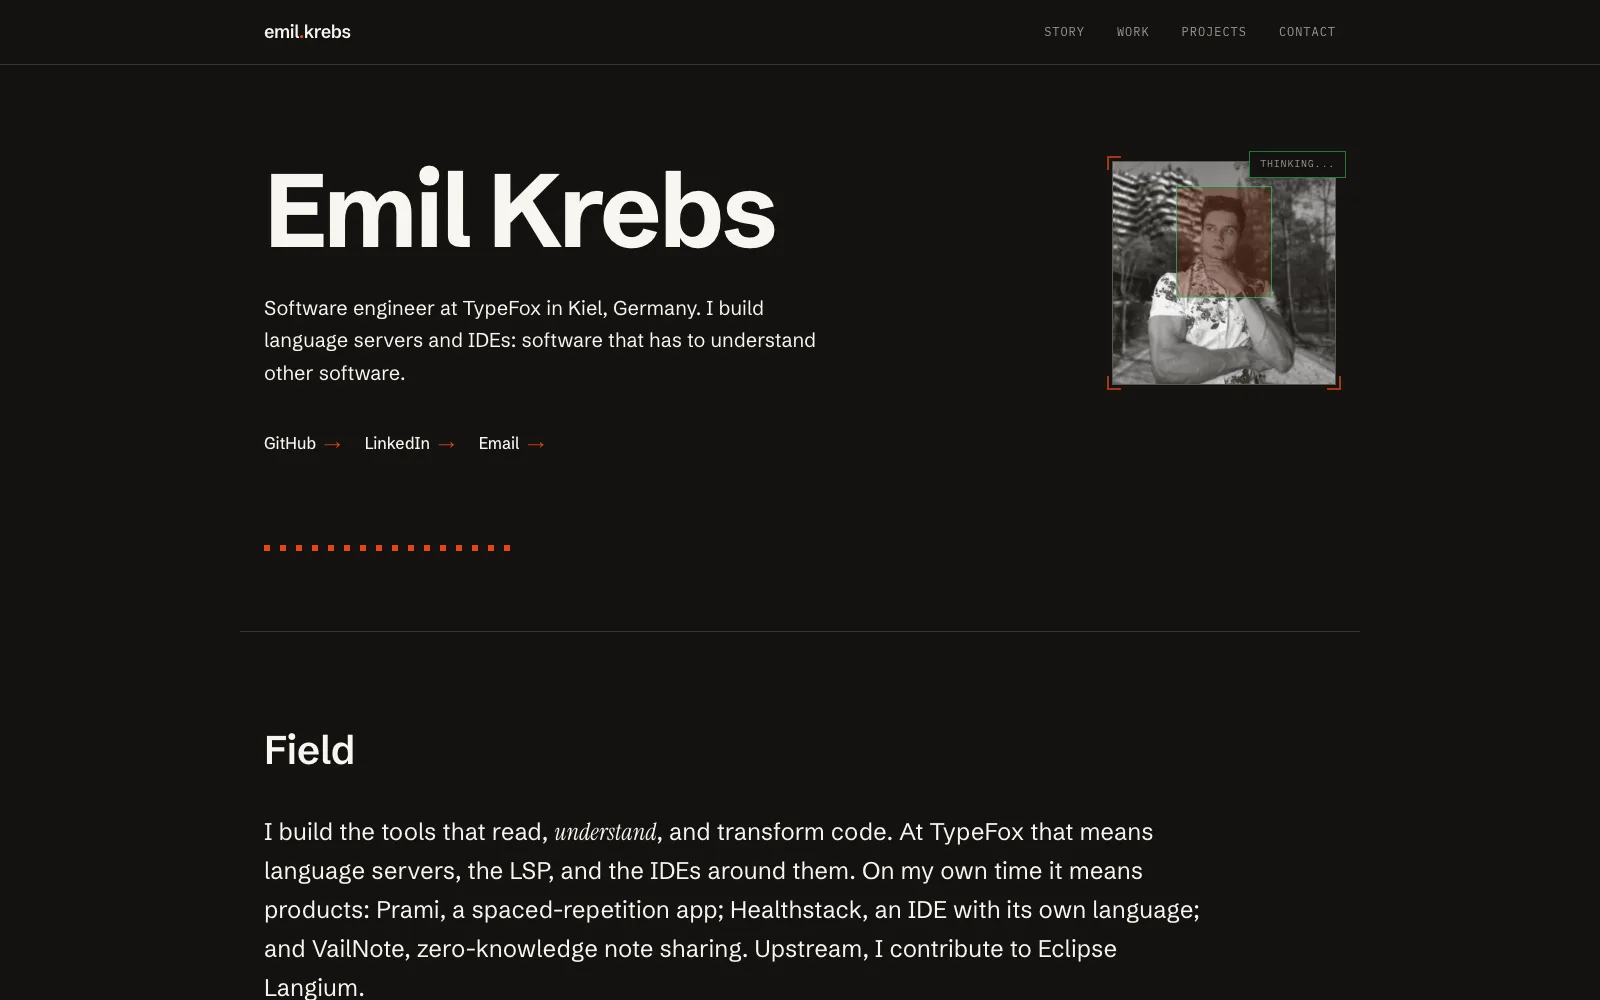
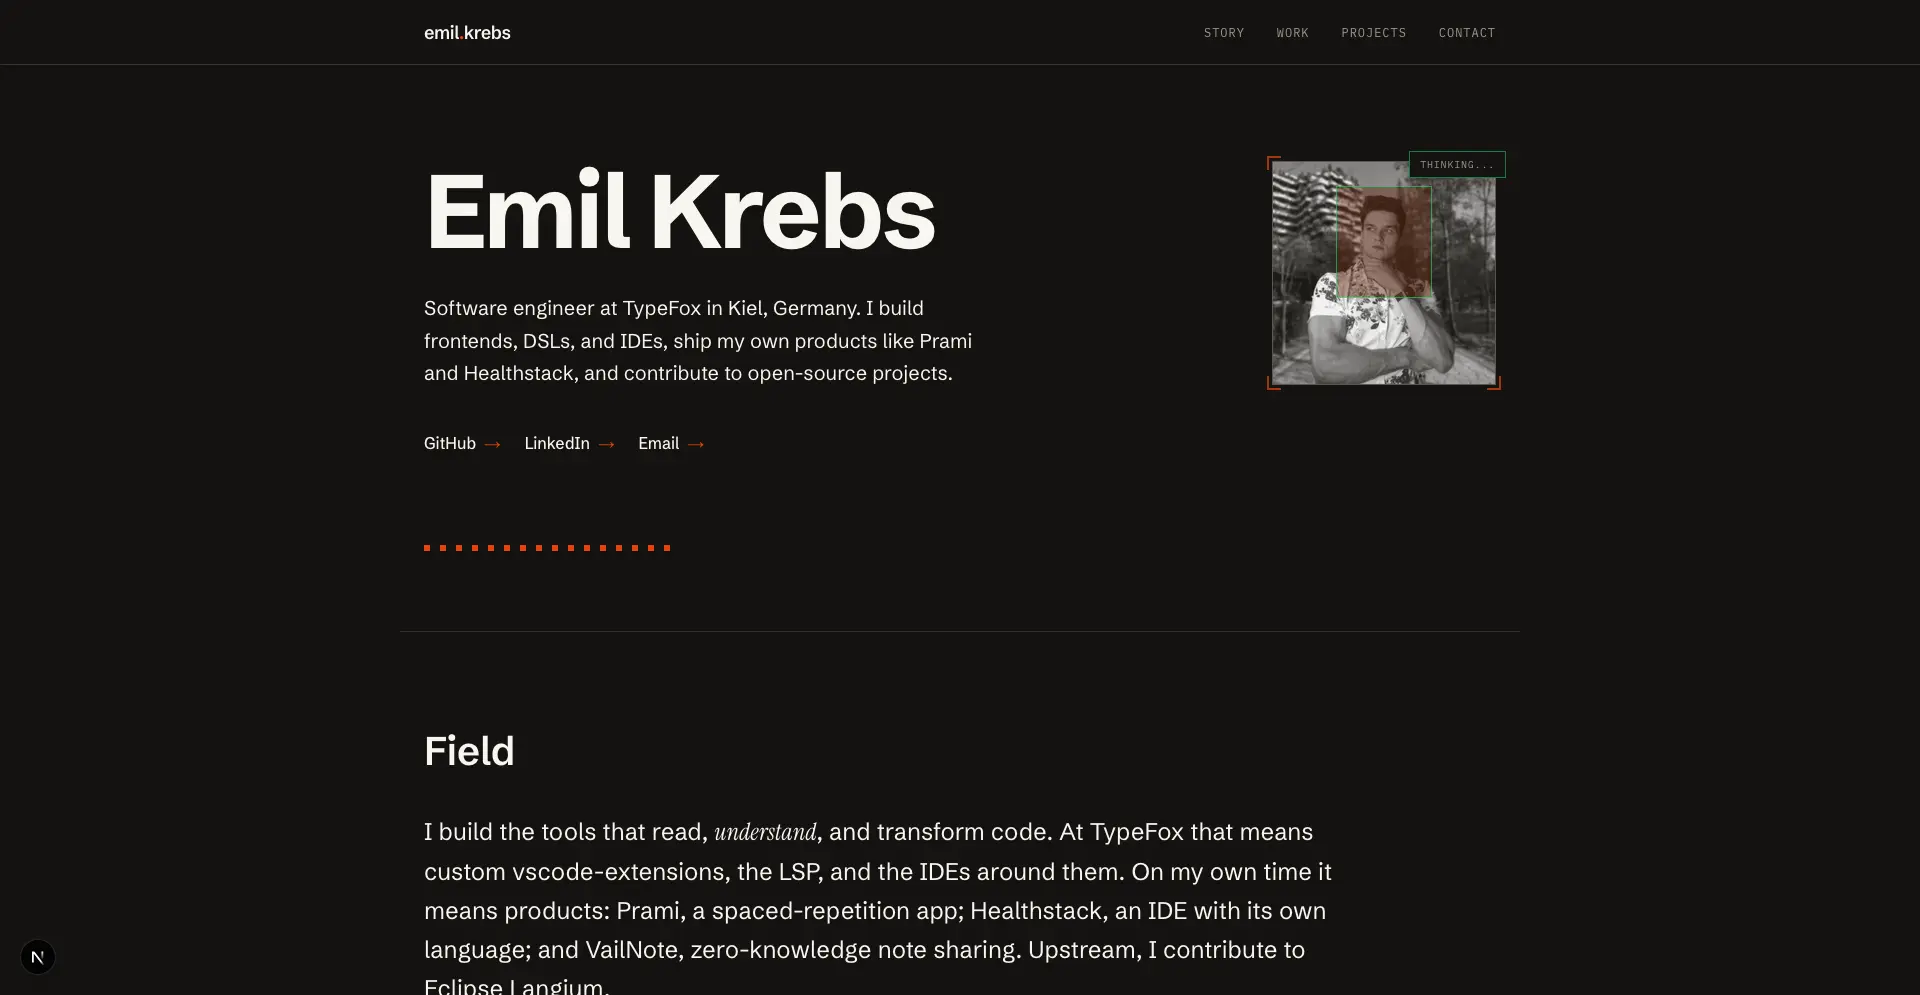
feat: add Med Research MCP project with details and links in English and Chinese

diff --git a/src/app/components/landing.tsx b/src/app/components/landing.tsx
@@ -39,18 +39,11 @@ const FLAGSHIP_BASE: ProjectBase[] = [
         id: "healthstack",
         route: "healthstack",
         tags: ["Theia", "Langium", "TypeScript", "Electron"],
-        image: "/pictures/healthstack-playground.webp",
+        image: "/pictures/healthstack-dashboard.webp",
     },
 ];
 
 const PROJECT_BASE: ProjectBase[] = [
-    {
-        id: "langium-showcase",
-        href: "https://langium.org/showcase/",
-        tags: ["Langium", "TypeScript", "DSLs"],
-        image: "/pictures/langium-minilogo.webp",
-        preview: "https://langium.org/showcase/minilogo/",
-    },
     {
         id: "vailnote",
         href: "https://vailnote.com/",
@@ -58,10 +51,23 @@ const PROJECT_BASE: ProjectBase[] = [
         image: "/pictures/vailnote.webp",
     },
     {
+        id: "med-research-mcp",
+        href: "https://github.com/emilkrebs/med-research-mcp",
+        tags: ["TypeScript", "MCP", "Node.js"],
+        image: "/pictures/med-research-mcp.svg",
+    },
+    {
         id: "watchlock",
         href: "https://github.com/emilkrebs/WatchLock",
         tags: ["Kotlin", "Android", "WearOS"],
         image: "/pictures/watchlock.webp",
+    },
+    {
+        id: "langium-showcase",
+        href: "https://langium.org/showcase/",
+        tags: ["Langium", "TypeScript", "DSLs"],
+        image: "/pictures/langium-minilogo.webp",
+        preview: "https://langium.org/showcase/minilogo/",
     },
     {
         id: "bipoc",
@@ -272,7 +278,7 @@ function WhatIDo({ t }: { t: LandingCopy }) {
 }
 
 function Work({ t }: { t: LandingCopy }) {
-    const tags = ["TypeScript", "LSP", "Langium", "Theia", "Node.js"];
+    const tags = ["TypeScript", "LSP", "React", "Next.js", "Langium", "Theia", "Node.js"];
     return (
         <section
             id="work"
@@ -312,6 +318,7 @@ interface ProjectEntryProps {
 }
 
 function ProjectEntry({ project, locale, flagship, wide }: ProjectEntryProps) {
+    const href = project.route ? routePath(project.route, locale) : project.href;
     return (
         <ProjectCard
             name={project.name}
@@ -319,11 +326,12 @@ function ProjectEntry({ project, locale, flagship, wide }: ProjectEntryProps) {
             status={project.status}
             caption={project.caption}
             tags={project.tags}
-            href={project.route ? routePath(project.route, locale) : project.href}
+            href={href}
             notice={project.notice}
             image={project.image}
             preview={project.preview}
             linkLabel={project.linkLabel}
+            linkOverride={project.linkOverride}
             variant={flagship ? "flagship" : undefined}
             sizes={wide ? FULL_WIDTH_SIZES : HALF_WIDTH_SIZES}
             locale={locale}
@@ -349,7 +357,9 @@ function Projects({ t, locale }: { t: LandingCopy; locale: Locale }) {
 
             <div className="mt-6 grid grid-cols-1 md:grid-cols-2 gap-6">
                 {projects.map((project, index) => {
-                    const wide = index % 3 === 0 || index === projects.length - 1;
+                    // Wide, narrow, narrow… — a narrow card with no partner after it becomes wide instead.
+                    const wide =
+                        index % 3 === 0 || (index % 3 === 1 && index === projects.length - 1);
                     return (
                         <div key={project.id} className={wide ? "md:col-span-2" : ""}>
                             <ProjectEntry project={project} locale={locale} wide={wide} />

diff --git a/src/app/globals.css b/src/app/globals.css
@@ -78,21 +78,6 @@ html:lang(zh) :is(h2, h3):is(.tracking-tight, [class*="tracking-[-"]) {
     letter-spacing: 0;
 }
 
-/* -------------------------------------------------------------------------
-   Chinese ornamental layer (mock proposal, zh pages only, see DESIGN.md).
-   Tiles live in ./zh-textures/ and are bundled from here, so their URLs are
-   content-hashed. Discipline: ornament lives at edges, dividers, watermarks,
-   and low-contrast surface grain; nothing sits behind the nav. Every layer
-   is pointer-events: none, adds no layout, and never animates.
-
-   The layer sits in the components cascade layer, so a utility on a hooked
-   element always wins. It is screen-only, and steps aside for visitors who
-   ask for more contrast or force their own colours. Watermarks sit at
-   z-index -1, either inside an isolated title or in the root stacking
-   context, which still paints them above the canvas that carries the body
-   paper. A container that holds a dialog trigger never gets a z-index or
-   isolation: a stacking context there would bury the dialog.
-   ------------------------------------------------------------------------- */
 @layer components {
     @media screen and (not (prefers-contrast: more)) and (not (forced-colors: active)) {
         html:lang(zh) {
@@ -235,14 +220,14 @@ html:lang(zh) :is(h2, h3):is(.tracking-tight, [class*="tracking-[-"]) {
               and crackle on each is noise. Both tiles top out near 9% alpha, so
               ink-soft tags keep 4.5:1 where a line crosses them. The tiles
               carry their own alpha: no blend modes, no negative z-index. */
-        html:lang(zh) .landing .project-card {
+        html:lang(zh) .project-card {
             background-image: url("./zh-textures/04-binglie-lines-ink.webp");
             background-repeat: repeat;
             background-size: 1024px auto;
         }
 
         @media (prefers-color-scheme: dark) {
-            html:lang(zh) .landing .project-card {
+            html:lang(zh) .project-card {
                 background-image: url("./zh-textures/04-binglie-lines.webp");
             }
         }

diff --git a/src/app/components/project-card.tsx b/src/app/components/project-card.tsx
@@ -24,6 +24,8 @@ export interface ProjectCardProps {
     caption?: string;
     /** Names the link's destination; falls back to the generic "Open". */
     linkLabel?: string;
+    // Overrides the href with a different URL, if provided.
+    linkOverride?: string;
     /** NDA work: dashed frame, no media, no details. */
     confidential?: boolean;
     /** flagship: larger title. compact: square media, tighter type, no caption. */
@@ -48,6 +50,7 @@ export function ProjectCard({
     placeholder,
     caption,
     linkLabel,
+    linkOverride,
     confidential,
     variant,
     filledTags,
@@ -57,9 +60,11 @@ export function ProjectCard({
     const compact = variant === "compact";
     const label = linkLabel ?? t.open;
 
+    const link = linkOverride ?? href;
+
     return (
         <article
-            className={`project-card relative overflow-hidden bg-paper-deep border flex flex-col group transition-colors duration-150 ${confidential
+            className={`project-card relative overflow-hidden bg-paper-deep border flex flex-col group transition-colors duration-150 h-full ${confidential
                 ? "border-ink/35 border-dashed hover:border-ink/70"
                 : "border-hairline hover:border-ink"
             }`}
@@ -154,12 +159,12 @@ export function ProjectCard({
                     </div>
                 )}
                 <div className={compact ? "mt-5" : "mt-8"}>
-                    {href ? (
+                    {link ? (
                         notice ? (
-                            <ExternalNotice href={href} title={name} copy={t.externalNotice} label={label} />
+                            <ExternalNotice href={link} title={name} copy={t.externalNotice} label={label} />
                         ) : (
                             <SmartLink
-                                href={href}
+                                href={link}
                                 className="inline-flex items-center gap-2 font-medium group-hover:text-signal transition-colors duration-150"
                             >
                                 {label}

diff --git a/src/app/(en)/healthstack/page.tsx b/src/app/(en)/healthstack/page.tsx
@@ -219,10 +219,6 @@ export default function HealthstackPage() {
                 </div>
             </section>
 
-            {page.sections.map((section) => (
-                <FeatureSection key={section.heading} section={section} />
-            ))}
-
             <section id="dsl" className="mx-auto max-w-280 px-6 py-16 md:py-20 border-t border-hairline scroll-mt-16">
                 <SectionHeading>{dsl.heading}</SectionHeading>
                 <p className="text-base md:text-lg leading-relaxed max-w-[62ch] mb-10">
@@ -266,6 +262,12 @@ export default function HealthstackPage() {
                     )}
                 </div>
             </section>
+
+
+            {page.sections.map((section) => (
+                <FeatureSection key={section.heading} section={section} />
+            ))}
+
 
             <section className="mx-auto max-w-280 px-6 py-16 md:py-24 border-t border-hairline">
                 <SectionHeading>{status.heading}</SectionHeading>

diff --git a/src/app/lib/i18n/types.ts b/src/app/lib/i18n/types.ts
@@ -63,6 +63,8 @@ export interface ProjectCopy {
     caption?: string;
     /** Names the link's destination; falls back to the generic "Open". */
     linkLabel?: string;
+    /** Overrides the href; used for special routing cases. */
+    linkOverride?: string;
 }
 
 
